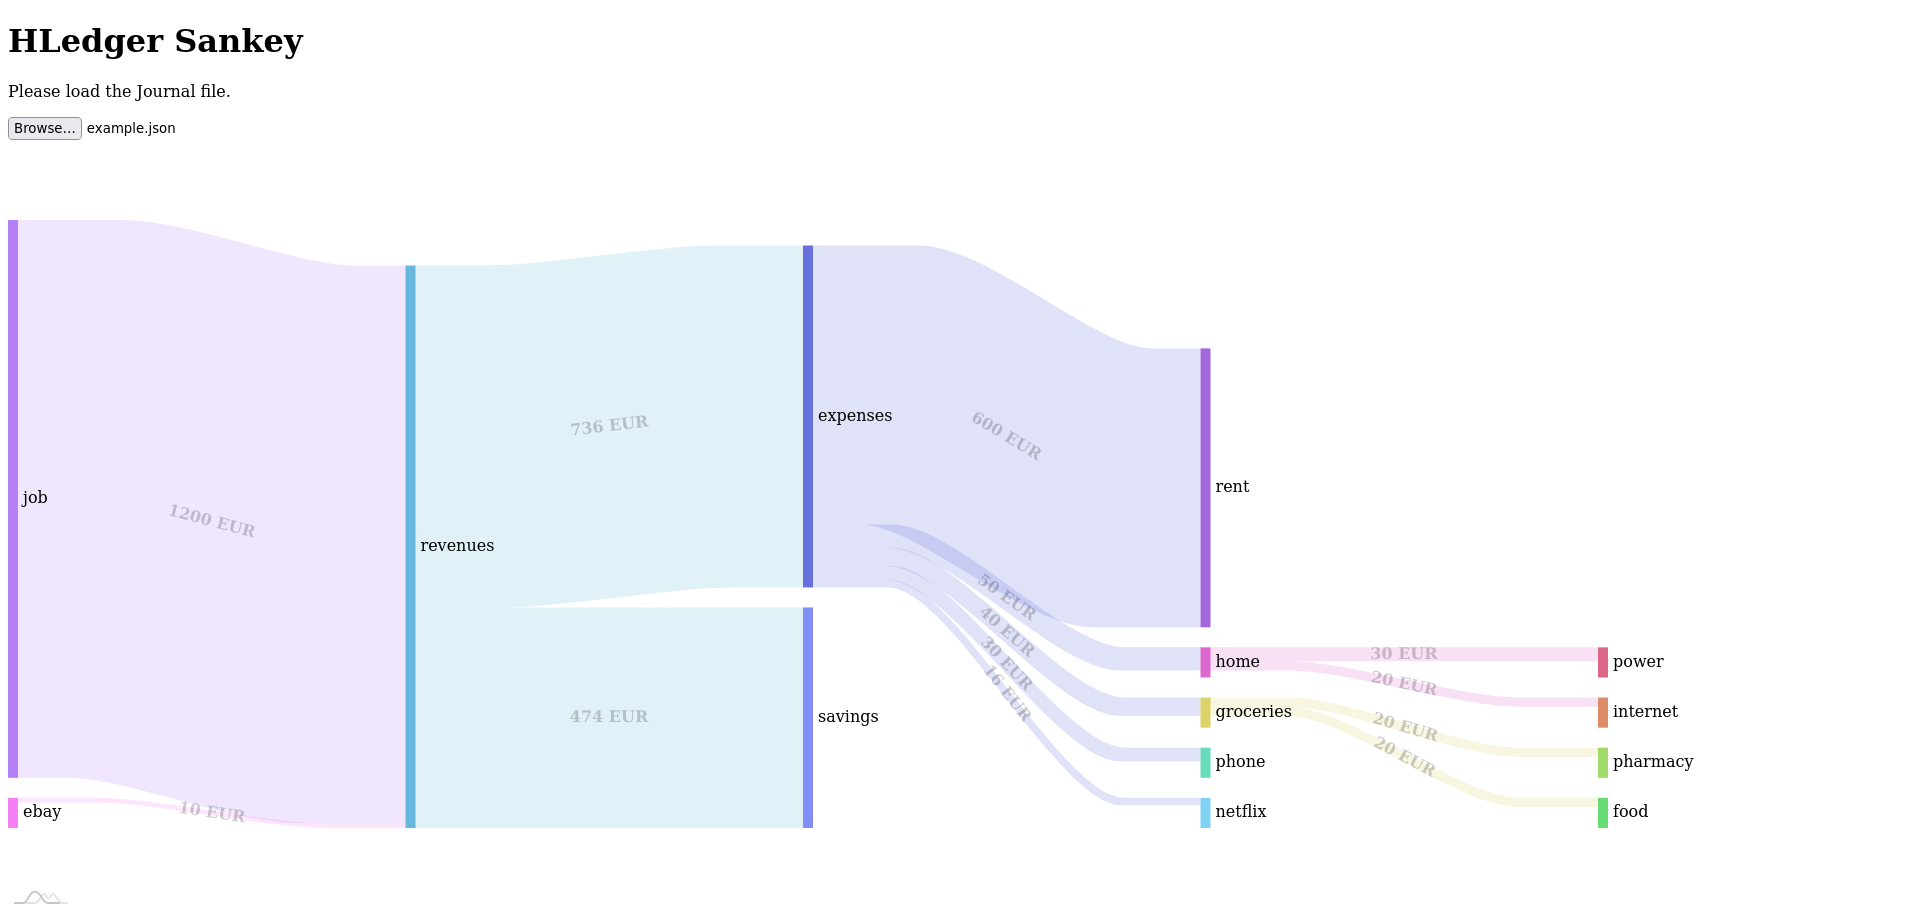
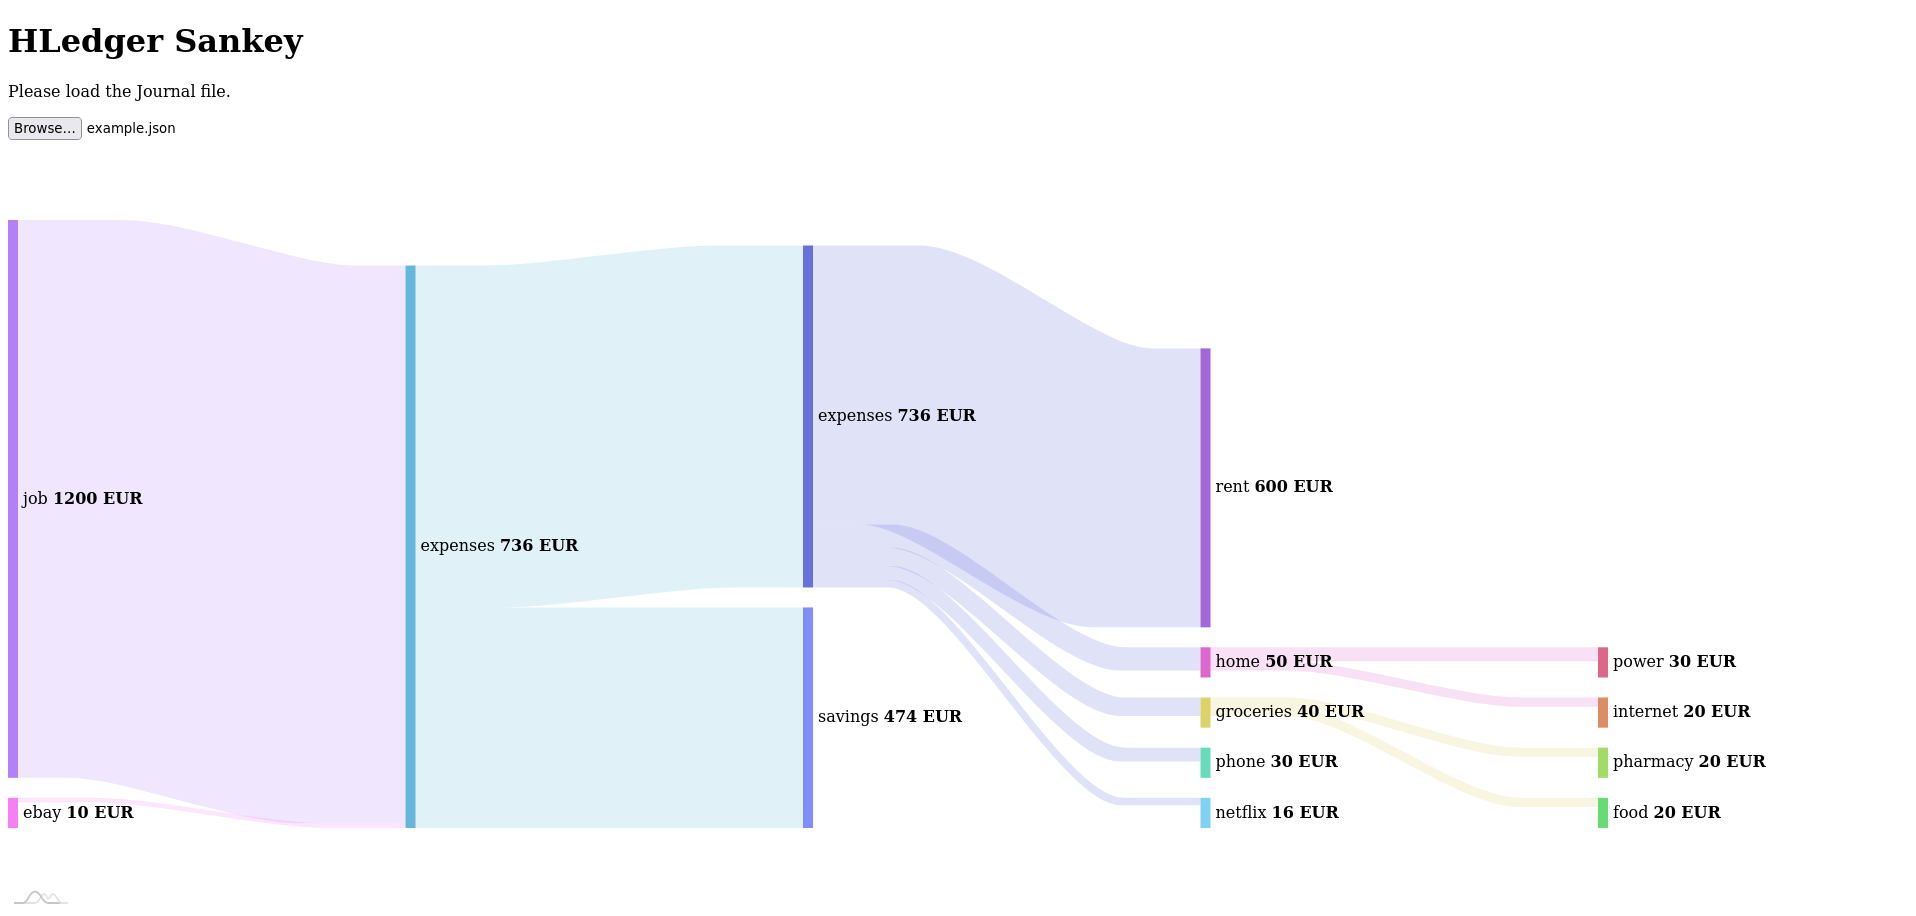
fix: label position

diff --git a/index.js b/index.js
@@ -41,11 +41,10 @@ function parseJournal(event) {
   chart.nodeAlign = 'bottom';
 
   // Amount labels.
-  const labelBullet = chart.links.template.bullets.push(
-      new am4charts.LabelBullet());
-  labelBullet.label.propertyFields.text = 'labelText';
-  labelBullet.label.propertyFields.horizontalCenter = 'left';
-  labelBullet.label.textAlign = 'start';
+  // See: https://www.amcharts.com/docs/v4/reference/label/
+  chart.nodes.template.nameLabel.label.propertyFields.text = "labelText";
+  chart.nodes.template.nameLabel.label.propertyFields.tooltipText = "labelText";
+  chart.nodes.template.nameLabel.label.truncate = false;
 };
 
 /**
@@ -121,7 +120,7 @@ class Row {
     this.amount = json.prrAmounts[0][0].aquantity.floatingPoint;
     this.currency = json.prrAmounts[0][0].acommodity;
     this.isRoot = !this.ancestors.length;
-    this.label = `[bold]${this.amount.toFixed(0)} ${this.currency}[/]`;
+    this.label = `${this.name} [bold]${this.amount.toFixed(0)} ${this.currency}[/]`;
   }
 }
 
@@ -181,7 +180,7 @@ function createChartData(journal) {
         labelText: row.label});
     } else {
       const savings = row.amount - totalExpenses;
-      const label = `[bold] ${savings.toFixed(0)} ${row.currency}`;
+      const label = `savings [bold] ${savings.toFixed(0)} ${row.currency}`;
       data.push({to: 'savings',
         from: 'revenues',
         value: savings,

diff --git a/README.md b/README.md
@@ -18,3 +18,10 @@ $ hledger incomestatement --cost --tree --sort-amount --output-format json > jou
 2. Open the `index.html` in your browser.
 3. Click `Browse` and select your exported JSON file.
 
+## Handy Export Functions
+- From .. To Export
+
+``` sh
+$ hledger incomestatement --cost --tree --sort-amount --output-format json -b 2021/04/01 -e 2021/06/30 > 2021-Q2.json
+```
+-  
